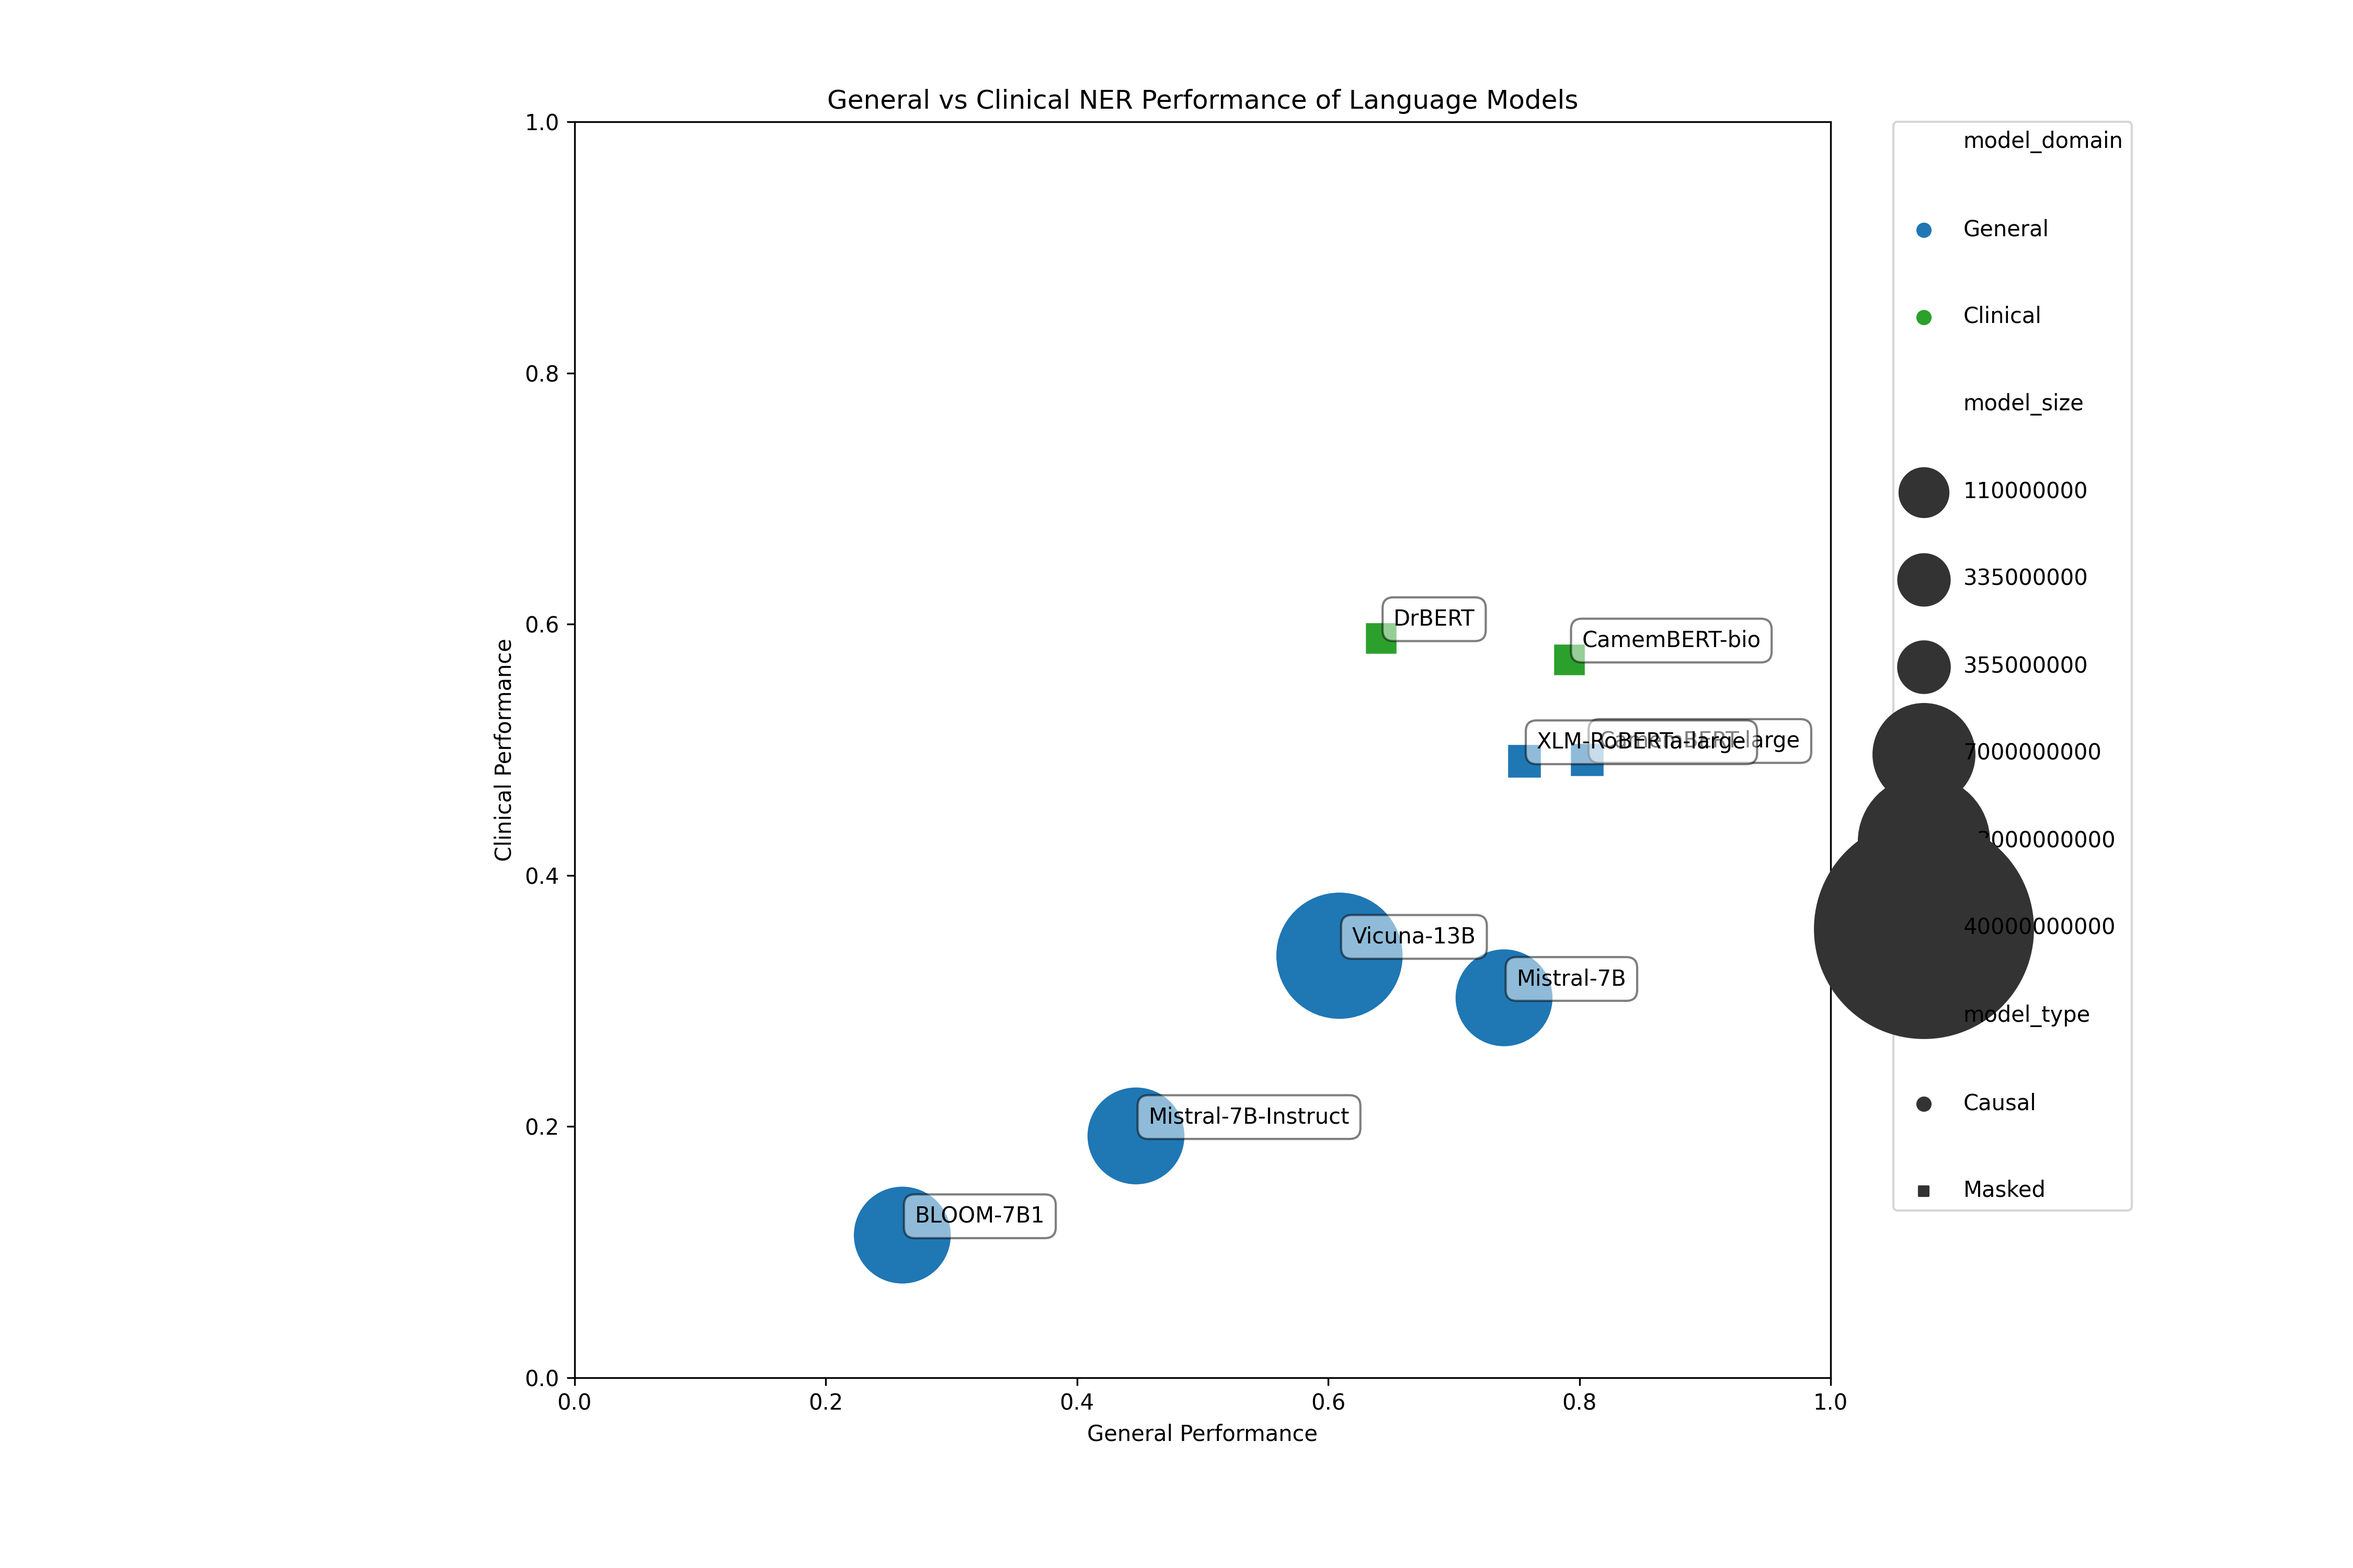
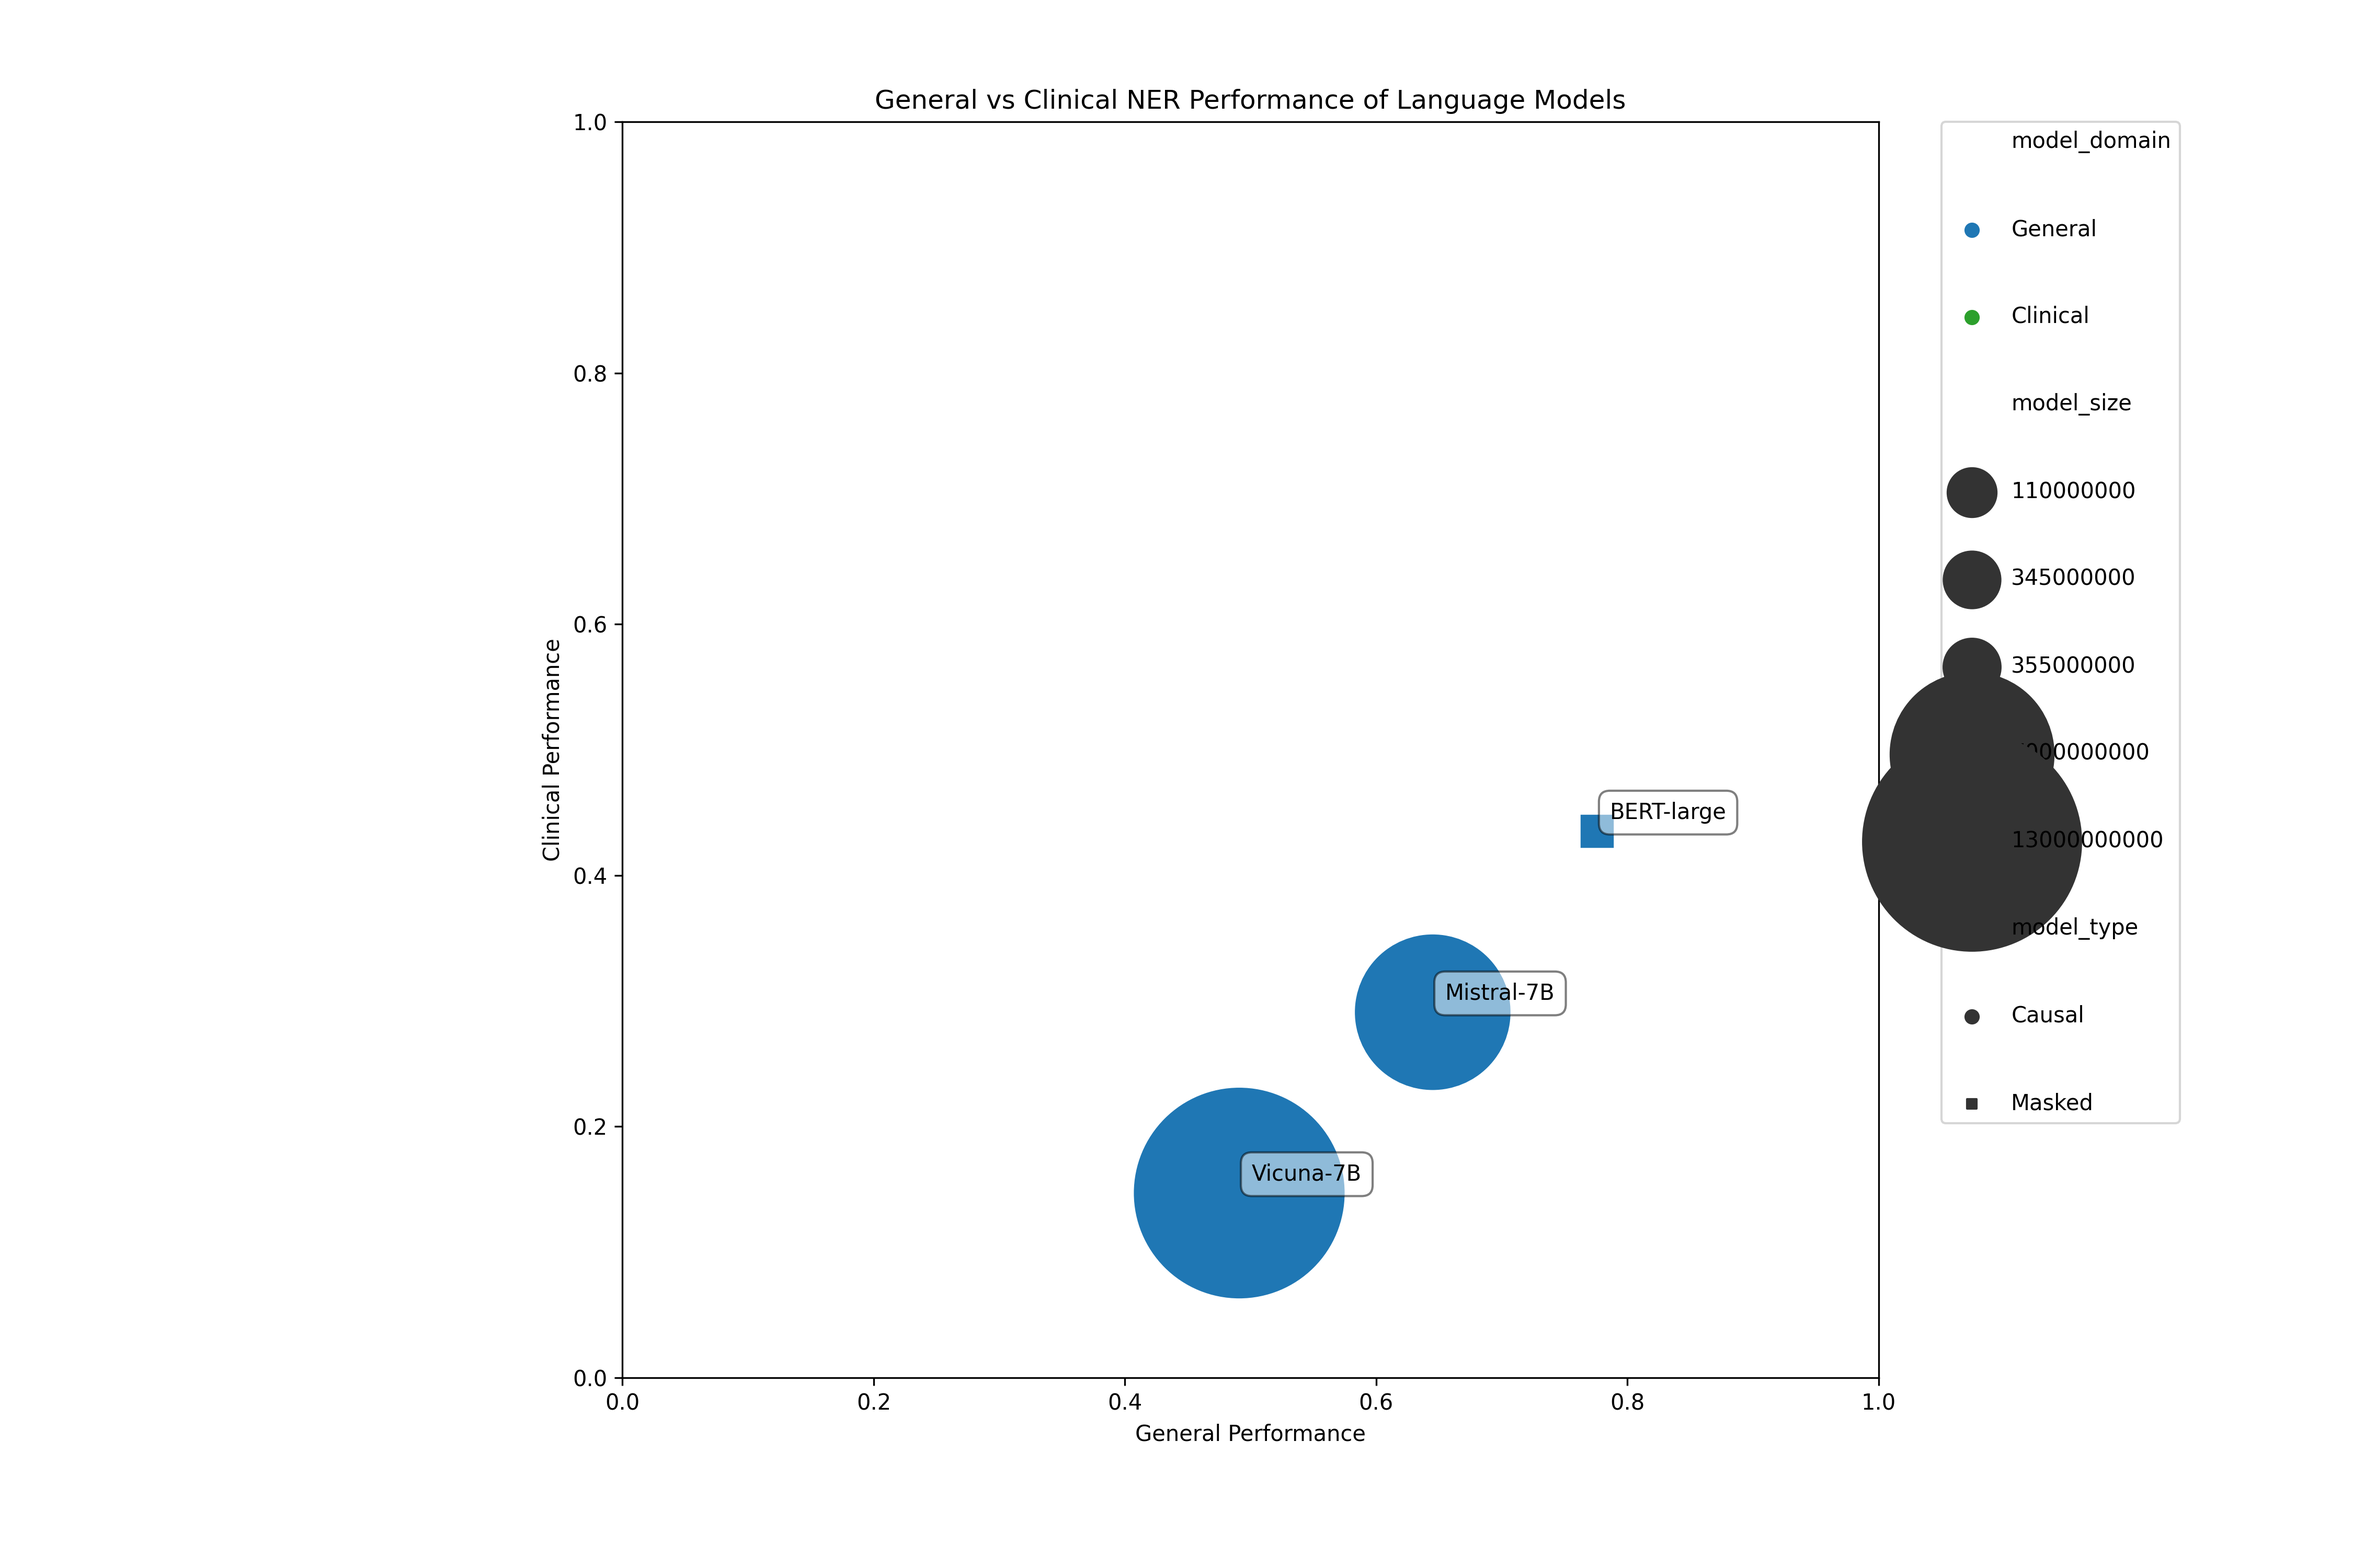
better log reading

diff --git a/read_jsons.py b/read_jsons.py
@@ -10,25 +10,25 @@ dataset_hierarchy = {
     "en":{
         "General": [
             {"conll2003": "CoNLL2003"},
-            {"WikiNER-en": "WikiNER"}
+            {"WikiNER-en": "WikiNER-en"},
         ],
         "Clinical": [
-            {"naguib-n2c2": "n2c2"}
+            {"n2c2": "n2c2"},
         ],
         },
     "fr": {
         "General": [
-            {"WikiNER-fr": "WikiNER"}
+            {"WikiNER-fr": "WikiNER-fr"},
         ],
         "Clinical": [
-            {"naguib-emea": "EMEA"},
-            {"naguib-medline": "MEDLINE"}
+            {"emea": "EMEA"},
+            {"medline": "MEDLINE"},
         ],
     },
     "es": {
         "General": [
             {"conll2002-es": "CoNLL2002"},
-            {"WikiNER-es": "WikiNER"}
+            {"WikiNER-es": "WikiNER-es"},
         ],
         "Clinical": []
     }
@@ -73,7 +73,7 @@ model_hierarchy = {
                 "languages" : ["es",],
             },
             {
-                "name": "bert-base-spanish-wwm-cased",
+                "name": "bert-base-spanish-wwm-uncased",
                 "clean_name": "BERT-base-Spanish",
                 "size": 110*M,
                 "languages" : ["es",],
@@ -102,13 +102,19 @@ model_hierarchy = {
                 "name": "camembert-bio-base",
                 "clean_name": "CamemBERT-bio",
                 "size": 110*M,
-                "languages" : ["en",],
+                "languages" : ["fr",],
             },
             {
-                "name": "DrBERT-4GB-CP-PubMedBERT",
-                "clean_name": "DrBERT",
-                "size": 110*M,
-                "languages" : ["en",],
+                "name": "DrBERT-4GB",
+                "clean_name": "DrBERT-4GB",
+                "size": 4*B,
+                "languages" : ["fr",],
+            },
+            {
+                "name": "DrBERT-7GB",
+                "clean_name": "DrBERT-7GB",
+                "size": 7*B,
+                "languages" : ["fr",],
             },
 
         ],
@@ -142,6 +148,12 @@ model_hierarchy = {
             {
                 "name": "Mistral-7B-v0.1",
                 "clean_name": "Mistral-7B",
+                "size": 7*B,
+                "languages" : ["en", "fr", "es"],
+            },
+            {
+                "name": "vicuna-7b-v1.5",
+                "clean_name": "Vicuna-7B",
                 "size": 7*B,
                 "languages" : ["en", "fr", "es"],
             },
@@ -193,7 +205,8 @@ def read_jsons(path):
     
     df = pd.DataFrame(data)
 
-
+    df['dataset_name'] = df['dataset_name'].apply(lambda name: name.replace('data-', ''))
+    df['dataset_name'] = df['dataset_name'].apply(lambda name: name.replace('naguib-', ''))
     df['lang'] = df['dataset_name'].apply(lambda name: dataset_langs[name])
     df['dataset_domain'] = df['dataset_name'].apply(lambda name: dataset_domains[name])
     df['model_name'] = df['model_name'].apply(lambda name: name.split('/')[-1])
@@ -203,6 +216,11 @@ def read_jsons(path):
     df['model_clean_name'] = df['model_name'].apply(lambda name: model_clean_names[name])
     df['f1'] = df['exact'].apply(lambda x: round(x['f1'],3))
     df['lang'] = df['dataset_name'].apply(lambda name: dataset_langs[name])
+    #get only experiments where test_on_test_set is True
+    df = df[df['test_on_test_set'] == True]
 
+    initial_len = len(df)
     df = df.drop_duplicates(subset=['model_name', 'dataset_name'], keep='last')
+    final_len = len(df)
+    print(f'Dropped {initial_len - final_len} duplicates.')
     return df

diff --git a/scatterplot_results.py b/scatterplot_results.py
@@ -3,15 +3,20 @@ import pandas as pd
 import seaborn as sns
 from matplotlib import pyplot as plt
 from read_jsons import read_jsons, model_domains, model_types, model_sizes, model_clean_names, dataset_names
+import argparse
 
+parser = argparse.ArgumentParser()
+parser.add_argument('-l', '--local', action='store_true')
+args = parser.parse_args()
 
+if not args.local:
+    print('Downloading results...')
+    cmd1='rsync -r jean-zay.idris.fr:/gpfswork/rech/lak/utb11pp/autoregressive_ner/results/ results/'
+    cmd2='rsync -r slurm-int:/mnt/beegfs/home/naguib/autoregressive_ner/results/ results/'
+    os.system(cmd1)
+    os.system(cmd2)
+    print('Done.')
 df = read_jsons('results')
-
-#clean camembert-base
-df = df[df['model_name'] != 'camembert-base']
-#drop camembert-large with medline
-df = df[~((df['model_name'] == 'camembert-large') & (df['dataset_name'] == 'naguib-emea'))]
-
 
 scatter_data = []
 for language, df_lang in df.groupby('lang'):
@@ -43,6 +48,7 @@ os.makedirs('tables', exist_ok=True)
 os.makedirs('figures', exist_ok=True)
 
 for lang in ['en', 'fr', 'es']:
+    plt.clf()
     sns.scatterplot(
         x="general_performance",
         y="clinical_performance",
@@ -52,10 +58,10 @@ for lang in ['en', 'fr', 'es']:
         style="model_type",
         style_order=["Causal","", "Masked"],
         sizes=(500,10000),
-        data=scatter_df.query('model_language == "fr"'),
+        data=scatter_df.query('model_language == @lang'),
     )
     for i in range(len(scatter_df)):
-        if scatter_df.model_language[i] == 'fr':
+        if scatter_df.model_language[i] == lang:
             plt.text(
                 x=scatter_df.general_performance[i]+0.01,
                 y=scatter_df.clinical_performance[i]+0.01,
@@ -92,4 +98,4 @@ for lang in ['en', 'fr', 'es']:
     df_lang = df_lang.rename_axis(None, axis=0)
     df_lang = df_lang.fillna('-')
     with open(f'tables/{lang}_results.tex', 'w') as f:
-        f.write(df_lang.to_latex(escape=False))
+        f.write(df_lang.to_latex(escape=False, float_format="%.3f", na_rep="-"))

diff --git a/tables/en_results.tex b/tables/en_results.tex
@@ -1,18 +1,14 @@
-\begin{tabular}{lrll}
+\begin{tabular}{lllr}
 \toprule
-{} &  WikiNER & CoNLL2003 &   n2c2 \\
+ & WikiNER-en & CoNLL2003 & n2c2 \\
 \midrule
-Mistral-7B-Instruct &    0.340 &     0.346 &  0.124 \\
-Mistral-7B          &    0.614 &     0.623 &  0.131 \\
-BLOOM-560M          &    0.155 &         - &      - \\
-BLOOM-7B1           &    0.158 &     0.107 &  0.016 \\
-Falcon-40B          &    0.652 &         - &      - \\
-Falcon-40B-Instruct &    0.346 &         - &      - \\
-Vicuna-13B          &    0.679 &     0.641 &   0.13 \\
-BERT-large          &    0.731 &     0.722 &  0.004 \\
-RoBERTa-large       &    0.749 &     0.741 &  0.004 \\
-XLM-RoBERTa-large   &    0.741 &         - &  0.004 \\
-ClinicalBERT        &    0.483 &     0.471 &  0.008 \\
-MedBERT             &    0.587 &     0.522 &  0.007 \\
+Mistral-7B & - & 0.645 & 0.291 \\
+Vicuna-7B & 0.594 & 0.388 & 0.147 \\
+BERT-large & 0.776 & - & 0.435 \\
+RoBERTa-large & - & - & 0.462 \\
+XLM-RoBERTa-large & - & - & 0.462 \\
+ClinicalBERT & - & - & 0.480 \\
+MedBERT & - & - & 0.478 \\
+CamemBERT-bio & - & - & 0.440 \\
 \bottomrule
 \end{tabular}

diff --git a/tables/fr_results.tex b/tables/fr_results.tex
@@ -1,16 +1,12 @@
-\begin{tabular}{lllr}
+\begin{tabular}{llrr}
 \toprule
-{} & WikiNER &   EMEA &  MEDLINE \\
+ & WikiNER-fr & EMEA & MEDLINE \\
 \midrule
-Mistral-7B-Instruct &   0.447 &  0.219 &    0.166 \\
-Mistral-7B          &    0.74 &  0.318 &    0.287 \\
-BLOOM-7B1           &   0.261 &  0.132 &    0.095 \\
-Falcon-40B          &       - &      - &    0.239 \\
-Falcon-40B-Instruct &       - &      - &    0.000 \\
-Vicuna-13B          &   0.609 &  0.414 &    0.258 \\
-CamemBERT-large     &   0.806 &      - &    0.492 \\
-XLM-RoBERTa-large   &   0.756 &      - &    0.491 \\
-DrBERT              &   0.642 &      - &    0.589 \\
-CamemBERT-bio       &   0.792 &      - &    0.572 \\
+Mistral-7B & 0.727 & 0.229 & 0.333 \\
+Vicuna-7B & - & 0.152 & 0.296 \\
+CamemBERT-large & 0.829 & 0.661 & 0.577 \\
+XLM-RoBERTa-large & - & 0.629 & 0.531 \\
+DrBERT & - & 0.602 & 0.486 \\
+DrBERT & - & 0.588 & 0.469 \\
 \bottomrule
 \end{tabular}

diff --git a/tables/es_results.tex b/tables/es_results.tex
@@ -1,16 +1,7 @@
-\begin{tabular}{llr}
+\begin{tabular}{lr}
 \toprule
-{} & WikiNER &  CoNLL2002 \\
+ & WikiNER-es \\
 \midrule
-Mistral-7B-Instruct &   0.397 &      0.392 \\
-Mistral-7B          &   0.722 &      0.649 \\
-BLOOM-7B1           &   0.295 &      0.377 \\
-Falcon-40B          &       - &      0.582 \\
-Falcon-40B-Instruct &       - &      0.183 \\
-Vicuna-13B          &   0.772 &      0.590 \\
-BERT-base-Spanish   &    0.77 &      0.737 \\
-PatanaBERT          &   0.751 &      0.764 \\
-TulioBERT           &   0.763 &      0.782 \\
-XLM-RoBERTa-large   &   0.801 &      0.763 \\
+BERT-base-Spanish & 0.794 \\
 \bottomrule
 \end{tabular}
